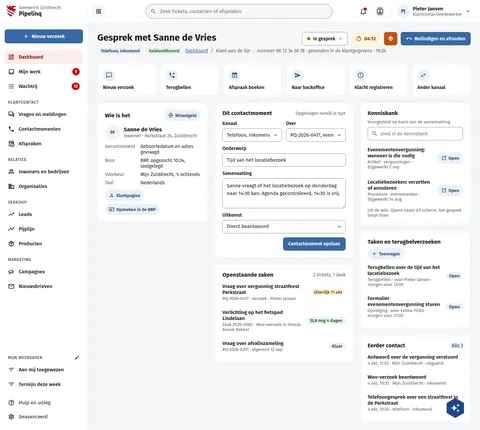
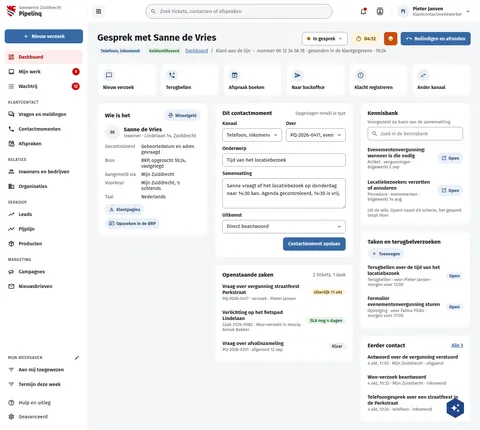
fix(screens): PqWerkplekKlant: Sanne lives on the Lindelaan, and keeps 'Aangemeld via'
- 'Wie is het' reads Sanne's address as the example-set cast holds it
  (Lindelaan 14), the cast being canon across apps.
- The client's own source stays a row of its own ('Aangemeld via Mijn
  Zuiddrecht') beside 'Bron: BRP, opgezocht ...', so the feature live has
  is drawn.

Assisted-by: ClaudeCode:claude-opus-5-5

Changed region(s): [[0.2188, 0.3023, 0.4062, 0.5442], [0.375, 0.3326, 0.4062, 0.3628]]

diff --git a/preview/screens/boards/PqWerkplekKlant.html b/preview/screens/boards/PqWerkplekKlant.html
@@ -199,7 +199,7 @@ a{color:var(--sc-primary, #3669a5)}a:hover{color:var(--sc-primary-deep, #234a78)
   <a href="PqBerichtSturen.html" style="background: #ffffff; border: 1px solid var(--sc-work-line, #e4e6ea); border-radius: 12px; padding: 16px; display: flex; flex-direction: column; align-items: flex-start; gap: 10px; text-decoration: none; color: var(--sc-work-ink, #1b1c1d)"><span style="width: 36px; height: 36px; border-radius: 18px; background: var(--sc-primary-light, #eaf0f7); color: var(--sc-primary-deep, #234a78); display: inline-flex; align-items: center; justify-content: center"><svg width="20" height="20" viewbox="0 0 24 24" fill="currentColor" aria-hidden="true"><path d="M21,9L17,5V8H10V10H17V13M7,11L3,15L7,19V16H14V14H7V11Z"></path></svg></span><span style="font-size: 14px; font-weight: 600">Ander kanaal</span></a>
 </nav>
 <div style="display: grid; grid-template-columns: minmax(0, 1fr) minmax(0, 1.25fr) minmax(0, 1fr); gap: 20px; align-items: start">
-          <div style="display: flex; flex-direction: column; gap: 20px"><section style="background: #ffffff; border: 1px solid var(--sc-work-line, #e4e6ea); border-radius: 12px; padding: 20px 22px; display: flex; flex-direction: column; gap: 12px"><div style="display: flex; justify-content: space-between; align-items: center; gap: 8px; flex-wrap: wrap"><h2 style="margin: 0; font-size: 17px; font-weight: 700; color: var(--sc-work-ink, #1b1c1d)">Wie is het</h2><button type="button" style="display: inline-flex; align-items: center; gap: 6px; height: 34px; padding: 0 12px; border: 0; border-radius: 17px; background: var(--sc-primary-light, #eaf0f7); color: var(--sc-primary-deep, #234a78); font: 600 13px var(--sc-font, 'Fira Sans'), sans-serif"><svg width="16" height="16" viewbox="0 0 24 24" fill="currentColor"><path d="M16 9C22 9 22 13 22 13V15H16V13C16 13 16 11.31 14.85 9.8C14.68 9.57 14.47 9.35 14.25 9.14C14.77 9.06 15.34 9 16 9M8 11C11.5 11 11.94 12.56 12 13H4C4.06 12.56 4.5 11 8 11M8 9C2 9 2 13 2 13V15H14V13C14 13 14 9 8 9M9 17V19H15V17L18 20L15 23V21H9V23L6 20L9 17M8 3C8.55 3 9 3.45 9 4S8.55 5 8 5 7 4.55 7 4 7.45 3 8 3M8 1C6.34 1 5 2.34 5 4S6.34 7 8 7 11 5.66 11 4 9.66 1 8 1M16 1C14.34 1 13 2.34 13 4S14.34 7 16 7 19 5.66 19 4 17.66 1 16 1Z"></path></svg>Wisselgeld</button></div><div style="display: flex; gap: 12px; align-items: center"><span style="width: 44px; height: 44px; flex: none; border-radius: 22px; background: var(--sc-work-chip, #f0f1f3); color: var(--sc-work-text, #3d4047); display: inline-flex; align-items: center; justify-content: center; font-size: 12px; font-weight: 700">SV</span><span style="display: flex; flex-direction: column"><strong style="font-size: 17px">Sanne de Vries</strong><span style="font-size: 14px; color: var(--sc-work-muted, #5e6168)">Inwoner · Parkstraat 24, Zuiddrecht</span></span></div><dl style="margin: 0; display: grid; grid-template-columns: max-content 1fr; gap: 8px 16px; font-size: 14px"><dt style="color: var(--sc-work-muted, #5e6168)">Gecontroleerd</dt><dd style="margin: 0">Geboortedatum en adres gevraagd</dd><dt style="color: var(--sc-work-muted, #5e6168)">Bron</dt><dd style="margin: 0">BRP, opgezocht 10:24, vastgelegd</dd><dt style="color: var(--sc-work-muted, #5e6168)">Voorkeur</dt><dd style="margin: 0">Mijn Zuiddrecht, 's ochtends</dd><dt style="color: var(--sc-work-muted, #5e6168)">Taal</dt><dd style="margin: 0">Nederlands</dd></dl><div style="display: flex; flex-wrap: wrap; gap: 8px"><button type="button" style="display: inline-flex; align-items: center; gap: 6px; height: 34px; padding: 0 12px; border: 0; border-radius: 17px; background: var(--sc-primary-light, #eaf0f7); color: var(--sc-primary-deep, #234a78); font: 600 13px var(--sc-font, 'Fira Sans'), sans-serif"><svg width="16" height="16" viewbox="0 0 24 24" fill="currentColor"><path d="M12,4A4,4 0 0,1 16,8A4,4 0 0,1 12,12A4,4 0 0,1 8,8A4,4 0 0,1 12,4M12,6A2,2 0 0,0 10,8A2,2 0 0,0 12,10A2,2 0 0,0 14,8A2,2 0 0,0 12,6M12,13C14.67,13 20,14.33 20,17V20H4V17C4,14.33 9.33,13 12,13M12,14.9C9.03,14.9 5.9,16.36 5.9,17V18.1H18.1V17C18.1,16.36 14.97,14.9 12,14.9Z"></path></svg>Klantpagina</button><button type="button" style="display: inline-flex; align-items: center; gap: 6px; height: 34px; padding: 0 12px; border: 0; border-radius: 17px; background: var(--sc-primary-light, #eaf0f7); color: var(--sc-primary-deep, #234a78); font: 600 13px var(--sc-font, 'Fira Sans'), sans-serif"><svg width="16" height="16" viewbox="0 0 24 24" fill="currentColor"><path d="M22,3H2C0.91,3.04 0.04,3.91 0,5V19C0.04,20.09 0.91,20.96 2,21H22C23.09,20.96 23.96,20.09 24,19V5C23.96,3.91 23.09,3.04 22,3M22,19H2V5H22V19M14,17V15.75C14,14.09 10.66,13.25 9,13.25C7.34,13.25 4,14.09 4,15.75V17H14M9,7A2.5,2.5 0 0,0 6.5,9.5A2.5,2.5 0 0,0 9,12A2.5,2.5 0 0,0 11.5,9.5A2.5,2.5 0 0,0 9,7M14,7V8H20V7H14M14,9V10H20V9H14M14,11V12H18V11H14"></path></svg>Opzoeken in de BRP</button></div></section></div>
+          <div style="display: flex; flex-direction: column; gap: 20px"><section style="background: #ffffff; border: 1px solid var(--sc-work-line, #e4e6ea); border-radius: 12px; padding: 20px 22px; display: flex; flex-direction: column; gap: 12px"><div style="display: flex; justify-content: space-between; align-items: center; gap: 8px; flex-wrap: wrap"><h2 style="margin: 0; font-size: 17px; font-weight: 700; color: var(--sc-work-ink, #1b1c1d)">Wie is het</h2><button type="button" style="display: inline-flex; align-items: center; gap: 6px; height: 34px; padding: 0 12px; border: 0; border-radius: 17px; background: var(--sc-primary-light, #eaf0f7); color: var(--sc-primary-deep, #234a78); font: 600 13px var(--sc-font, 'Fira Sans'), sans-serif"><svg width="16" height="16" viewbox="0 0 24 24" fill="currentColor"><path d="M16 9C22 9 22 13 22 13V15H16V13C16 13 16 11.31 14.85 9.8C14.68 9.57 14.47 9.35 14.25 9.14C14.77 9.06 15.34 9 16 9M8 11C11.5 11 11.94 12.56 12 13H4C4.06 12.56 4.5 11 8 11M8 9C2 9 2 13 2 13V15H14V13C14 13 14 9 8 9M9 17V19H15V17L18 20L15 23V21H9V23L6 20L9 17M8 3C8.55 3 9 3.45 9 4S8.55 5 8 5 7 4.55 7 4 7.45 3 8 3M8 1C6.34 1 5 2.34 5 4S6.34 7 8 7 11 5.66 11 4 9.66 1 8 1M16 1C14.34 1 13 2.34 13 4S14.34 7 16 7 19 5.66 19 4 17.66 1 16 1Z"></path></svg>Wisselgeld</button></div><div style="display: flex; gap: 12px; align-items: center"><span style="width: 44px; height: 44px; flex: none; border-radius: 22px; background: var(--sc-work-chip, #f0f1f3); color: var(--sc-work-text, #3d4047); display: inline-flex; align-items: center; justify-content: center; font-size: 12px; font-weight: 700">SV</span><span style="display: flex; flex-direction: column"><strong style="font-size: 17px">Sanne de Vries</strong><span style="font-size: 14px; color: var(--sc-work-muted, #5e6168)">Inwoner · Lindelaan 14, Zuiddrecht</span></span></div><dl style="margin: 0; display: grid; grid-template-columns: max-content 1fr; gap: 8px 16px; font-size: 14px"><dt style="color: var(--sc-work-muted, #5e6168)">Gecontroleerd</dt><dd style="margin: 0">Geboortedatum en adres gevraagd</dd><dt style="color: var(--sc-work-muted, #5e6168)">Bron</dt><dd style="margin: 0">BRP, opgezocht 10:24, vastgelegd</dd><dt style="color: var(--sc-work-muted, #5e6168)">Aangemeld via</dt><dd style="margin: 0">Mijn Zuiddrecht</dd><dt style="color: var(--sc-work-muted, #5e6168)">Voorkeur</dt><dd style="margin: 0">Mijn Zuiddrecht, 's ochtends</dd><dt style="color: var(--sc-work-muted, #5e6168)">Taal</dt><dd style="margin: 0">Nederlands</dd></dl><div style="display: flex; flex-wrap: wrap; gap: 8px"><button type="button" style="display: inline-flex; align-items: center; gap: 6px; height: 34px; padding: 0 12px; border: 0; border-radius: 17px; background: var(--sc-primary-light, #eaf0f7); color: var(--sc-primary-deep, #234a78); font: 600 13px var(--sc-font, 'Fira Sans'), sans-serif"><svg width="16" height="16" viewbox="0 0 24 24" fill="currentColor"><path d="M12,4A4,4 0 0,1 16,8A4,4 0 0,1 12,12A4,4 0 0,1 8,8A4,4 0 0,1 12,4M12,6A2,2 0 0,0 10,8A2,2 0 0,0 12,10A2,2 0 0,0 14,8A2,2 0 0,0 12,6M12,13C14.67,13 20,14.33 20,17V20H4V17C4,14.33 9.33,13 12,13M12,14.9C9.03,14.9 5.9,16.36 5.9,17V18.1H18.1V17C18.1,16.36 14.97,14.9 12,14.9Z"></path></svg>Klantpagina</button><button type="button" style="display: inline-flex; align-items: center; gap: 6px; height: 34px; padding: 0 12px; border: 0; border-radius: 17px; background: var(--sc-primary-light, #eaf0f7); color: var(--sc-primary-deep, #234a78); font: 600 13px var(--sc-font, 'Fira Sans'), sans-serif"><svg width="16" height="16" viewbox="0 0 24 24" fill="currentColor"><path d="M22,3H2C0.91,3.04 0.04,3.91 0,5V19C0.04,20.09 0.91,20.96 2,21H22C23.09,20.96 23.96,20.09 24,19V5C23.96,3.91 23.09,3.04 22,3M22,19H2V5H22V19M14,17V15.75C14,14.09 10.66,13.25 9,13.25C7.34,13.25 4,14.09 4,15.75V17H14M9,7A2.5,2.5 0 0,0 6.5,9.5A2.5,2.5 0 0,0 9,12A2.5,2.5 0 0,0 11.5,9.5A2.5,2.5 0 0,0 9,7M14,7V8H20V7H14M14,9V10H20V9H14M14,11V12H18V11H14"></path></svg>Opzoeken in de BRP</button></div></section></div>
           <div style="display: flex; flex-direction: column; gap: 20px"><section style="background: #ffffff; border: 1px solid var(--sc-work-line, #e4e6ea); border-radius: 12px; padding: 20px 22px; display: flex; flex-direction: column; gap: 12px"><div style="display: flex; justify-content: space-between; align-items: center; gap: 8px; flex-wrap: wrap"><h2 style="margin: 0; font-size: 17px; font-weight: 700; color: var(--sc-work-ink, #1b1c1d)">Dit contactmoment</h2><span style="font-size: 13px; color: var(--sc-work-muted, #5e6168)">Opgeslagen terwijl je typt</span></div><div style="display: grid; grid-template-columns: repeat(2, minmax(0, 1fr)); gap: 12px"><div style="display: flex; flex-direction: column; gap: 6px; min-width: 0"><label for="pq-wp-ch" style="font-size: 14px; font-weight: 600">Kanaal</label><div style="position: relative"><select id="pq-wp-ch" style="width: 100%; height: 40px; box-sizing: border-box; padding: 0 36px 0 12px; border: 1px solid var(--sc-work-field, #828a95); border-radius: 8px; background: #ffffff; font: 400 15px var(--sc-font, 'Fira Sans'), sans-serif; color: var(--sc-work-ink, #1b1c1d); appearance: none"><option>Telefoon, inkomend</option></select><svg width="18" height="18" viewbox="0 0 24 24" fill="#3d4047" style="position: absolute; right: 10px; top: 11px; pointer-events: none;fill:var(--sc-work-text, #3d4047)"><path d="M7.41,8.58L12,13.17L16.59,8.58L18,10L12,16L6,10L7.41,8.58Z"></path></svg></div></div><div style="display: flex; flex-direction: column; gap: 6px; min-width: 0"><label for="pq-wp-req" style="font-size: 14px; font-weight: 600">Over</label><div style="position: relative"><select id="pq-wp-req" style="width: 100%; height: 40px; box-sizing: border-box; padding: 0 36px 0 12px; border: 1px solid var(--sc-work-field, #828a95); border-radius: 8px; background: #ffffff; font: 400 15px var(--sc-font, 'Fira Sans'), sans-serif; color: var(--sc-work-ink, #1b1c1d); appearance: none"><option>PQ-2026-0417, evenementenvergunning</option></select><svg width="18" height="18" viewbox="0 0 24 24" fill="#3d4047" style="position: absolute; right: 10px; top: 11px; pointer-events: none;fill:var(--sc-work-text, #3d4047)"><path d="M7.41,8.58L12,13.17L16.59,8.58L18,10L12,16L6,10L7.41,8.58Z"></path></svg></div></div></div><div style="display: flex; flex-direction: column; gap: 6px; min-width: 0"><label for="pq-wp-subj" style="font-size: 14px; font-weight: 600">Onderwerp</label><input id="pq-wp-subj" type="text" value="Tijd van het locatiebezoek" placeholder="" style="width: 100%; height: 40px; box-sizing: border-box; padding: 0 12px; border: 1px solid var(--sc-work-field, #828a95); border-radius: 8px; font: 400 15px var(--sc-font, 'Fira Sans'), sans-serif; color: var(--sc-work-ink, #1b1c1d)"></div><div style="display: flex; flex-direction: column; gap: 6px; min-width: 0"><label for="pq-wp-sum" style="font-size: 14px; font-weight: 600">Samenvatting</label><textarea id="pq-wp-sum" rows="3" placeholder="" style="width: 100%; box-sizing: border-box; padding: 10px 12px; border: 1px solid var(--sc-work-field, #828a95); border-radius: 8px; font: 400 15px/1.5 var(--sc-font, 'Fira Sans'), sans-serif; color: var(--sc-work-ink, #1b1c1d); resize: vertical">Sanne vraagt of het locatiebezoek op donderdag naar 14:30 kan. Agenda gecontroleerd, 14:30 is vrij.</textarea></div><div style="display: flex; flex-direction: column; gap: 6px; min-width: 0"><label for="pq-wp-out" style="font-size: 14px; font-weight: 600">Uitkomst</label><div style="position: relative"><select id="pq-wp-out" style="width: 100%; height: 40px; box-sizing: border-box; padding: 0 36px 0 12px; border: 1px solid var(--sc-work-field, #828a95); border-radius: 8px; background: #ffffff; font: 400 15px var(--sc-font, 'Fira Sans'), sans-serif; color: var(--sc-work-ink, #1b1c1d); appearance: none"><option>Direct beantwoord</option></select><svg width="18" height="18" viewbox="0 0 24 24" fill="#3d4047" style="position: absolute; right: 10px; top: 11px; pointer-events: none;fill:var(--sc-work-text, #3d4047)"><path d="M7.41,8.58L12,13.17L16.59,8.58L18,10L12,16L6,10L7.41,8.58Z"></path></svg></div></div><button type="button" style="align-self: flex-end; height: 40px; padding: 0 16px; border: 0; border-radius: 8px; background: var(--sc-primary, #3669a5); color: #ffffff; font: 600 14px var(--sc-font, 'Fira Sans'), sans-serif">Contactmoment opslaan</button></section><section style="background: #ffffff; border: 1px solid var(--sc-work-line, #e4e6ea); border-radius: 12px; padding: 20px 22px; display: flex; flex-direction: column; gap: 4px"><div style="display: flex; justify-content: space-between; align-items: center; gap: 8px; flex-wrap: wrap"><h2 style="margin: 0; font-size: 17px; font-weight: 700; color: var(--sc-work-ink, #1b1c1d)">Openstaande zaken</h2><span style="font-size: 14px; color: var(--sc-work-muted, #5e6168)">2 tickets, 1 zaak</span></div><div style="display: flex; gap: 12px; align-items: center; padding: 10px 0; border-top: 1px solid var(--sc-work-soft, #eef0f3)"><span style="flex: 1 1 auto; min-width: 0; display: flex; flex-direction: column; gap: 2px"><strong style="font-size: 15px; font-weight: 600">Vraag over vergunning straatfeest Parkstraat</strong><span style="font-size: 13px; color: var(--sc-work-muted, #5e6168)">PQ-2026-0417 · verzoek · Pieter Jansen</span></span><span style="display: inline-block; padding: 3px 10px; border-radius: 12px; font-size: 13px; font-weight: 600; white-space: nowrap; background: #fff4de; color: #7a4f00">Uiterlijk 11 okt</span></div><div style="display: flex; gap: 12px; align-items: center; padding: 10px 0; border-top: 1px solid var(--sc-work-soft, #eef0f3)"><span style="flex: 1 1 auto; min-width: 0; display: flex; flex-direction: column; gap: 2px"><strong style="font-size: 15px; font-weight: 600">Verlichting op het fietspad Lindelaan</strong><span style="font-size: 13px; color: var(--sc-work-muted, #5e6168)">Zaak 2026-0082 · Woo-verzoek in dossiq · Anouk Bakker</span></span><span style="display: inline-block; padding: 3px 10px; border-radius: 12px; font-size: 13px; font-weight: 600; white-space: nowrap; background: #e7f3ea; color: #1e6b2a">SLA nog 4 dagen</span></div><div style="display: flex; gap: 12px; align-items: center; padding: 10px 0; border-top: 1px solid var(--sc-work-soft, #eef0f3)"><span style="flex: 1 1 auto; min-width: 0; display: flex; flex-direction: column; gap: 2px"><strong style="font-size: 15px; font-weight: 600">Vraag over afvalinzameling</strong><span style="font-size: 13px; color: var(--sc-work-muted, #5e6168)">PQ-2026-0351 · afgerond 12 sep</span></span><span style="display: inline-block; padding: 3px 10px; border-radius: 12px; font-size: 13px; font-weight: 600; white-space: nowrap; background: var(--sc-work-chip, #f0f1f3); color: var(--sc-work-text, #3d4047)">Klaar</span></div></section></div>
           <div style="display: flex; flex-direction: column; gap: 20px"><section style="background: #ffffff; border: 1px solid var(--sc-work-line, #e4e6ea); border-radius: 12px; padding: 20px 22px; display: flex; flex-direction: column; gap: 8px"><div style="display: flex; justify-content: space-between; align-items: center; gap: 8px; flex-wrap: wrap"><h2 style="margin: 0; font-size: 17px; font-weight: 700; color: var(--sc-work-ink, #1b1c1d)">Kennisbank</h2><span style="font-size: 13px; color: var(--sc-work-muted, #5e6168)">Voorgesteld op basis van de samenvatting</span></div><div style="position: relative"><svg width="18" height="18" viewbox="0 0 24 24" fill="#5e6168" style="position: absolute; left: 12px; top: 11px;fill:var(--sc-work-muted, #5e6168)"><path d="M9.5,3A6.5,6.5 0 0,1 16,9.5C16,11.11 15.41,12.59 14.44,13.73L14.71,14H15.5L20.5,19L19,20.5L14,15.5V14.71L13.73,14.44C12.59,15.41 11.11,16 9.5,16A6.5,6.5 0 0,1 3,9.5A6.5,6.5 0 0,1 9.5,3M9.5,5C7,5 5,7 5,9.5C5,12 7,14 9.5,14C12,14 14,12 14,9.5C14,7 12,5 9.5,5Z"></path></svg><label for="pq-wp-kb" style="position: absolute; width: 1px; height: 1px; overflow: hidden; clip: rect(0 0 0 0)">Zoek in de kennisbank</label><input id="pq-wp-kb" type="search" placeholder="Zoek in de kennisbank" style="width: 100%; height: 40px; box-sizing: border-box; padding: 0 12px 0 38px; border: 1px solid var(--sc-work-field, #828a95); border-radius: 8px; font: 400 14px var(--sc-font, 'Fira Sans'), sans-serif"></div><div style="display: flex; gap: 12px; align-items: center; padding: 10px 0; border-top: 1px solid var(--sc-work-soft, #eef0f3)"><span style="flex: 1 1 auto; min-width: 0; display: flex; flex-direction: column; gap: 2px"><strong style="font-size: 15px; font-weight: 600">Evenementenvergunning: wanneer is die nodig</strong><span style="font-size: 13px; color: var(--sc-work-muted, #5e6168)">Artikel · vergunningen · bijgewerkt 2 sep</span></span><button type="button" style="display: inline-flex; align-items: center; gap: 6px; height: 34px; padding: 0 12px; border: 0; border-radius: 17px; background: var(--sc-primary-light, #eaf0f7); color: var(--sc-primary-deep, #234a78); font: 600 13px var(--sc-font, 'Fira Sans'), sans-serif"><svg width="16" height="16" viewbox="0 0 24 24" fill="currentColor"><path d="M14,3V5H17.59L7.76,14.83L9.17,16.24L19,6.41V10H21V3M19,19H5V5H12V3H5C3.89,3 3,3.9 3,5V19A2,2 0 0,0 5,21H19A2,2 0 0,0 21,19V12H19V19Z"></path></svg>Open</button></div><div style="display: flex; gap: 12px; align-items: center; padding: 10px 0; border-top: 1px solid var(--sc-work-soft, #eef0f3)"><span style="flex: 1 1 auto; min-width: 0; display: flex; flex-direction: column; gap: 2px"><strong style="font-size: 15px; font-weight: 600">Locatiebezoeken: verzetten of annuleren</strong><span style="font-size: 13px; color: var(--sc-work-muted, #5e6168)">Procedure · evenementen · bijgewerkt 14 aug</span></span><button type="button" style="display: inline-flex; align-items: center; gap: 6px; height: 34px; padding: 0 12px; border: 0; border-radius: 17px; background: var(--sc-primary-light, #eaf0f7); color: var(--sc-primary-deep, #234a78); font: 600 13px var(--sc-font, 'Fira Sans'), sans-serif"><svg width="16" height="16" viewbox="0 0 24 24" fill="currentColor"><path d="M14,3V5H17.59L7.76,14.83L9.17,16.24L19,6.41V10H21V3M19,19H5V5H12V3H5C3.89,3 3,3.9 3,5V19A2,2 0 0,0 5,21H19A2,2 0 0,0 21,19V12H19V19Z"></path></svg>Open</button></div><span style="font-size: 13px; color: var(--sc-work-muted, #5e6168)">Uit de wiki. Opent naast dit scherm, het gesprek loopt door.</span></section><section style="background: #ffffff; border: 1px solid var(--sc-work-line, #e4e6ea); border-radius: 12px; padding: 20px 22px; display: flex; flex-direction: column; gap: 4px"><div style="display: flex; justify-content: space-between; align-items: center; gap: 8px; flex-wrap: wrap"><h2 style="margin: 0; font-size: 17px; font-weight: 700; color: var(--sc-work-ink, #1b1c1d)">Taken en terugbelverzoeken</h2><button type="button" style="display: inline-flex; align-items: center; gap: 6px; height: 34px; padding: 0 12px; border: 0; border-radius: 17px; background: var(--sc-primary-light, #eaf0f7); color: var(--sc-primary-deep, #234a78); font: 600 13px var(--sc-font, 'Fira Sans'), sans-serif"><svg width="16" height="16" viewbox="0 0 24 24" fill="currentColor"><path d="M19,13H13V19H11V13H5V11H11V5H13V11H19V13Z"></path></svg>Toevoegen</button></div><div style="display: flex; gap: 12px; align-items: center; padding: 10px 0; border-top: 1px solid var(--sc-work-soft, #eef0f3)"><span style="flex: 1 1 auto; min-width: 0; display: flex; flex-direction: column; gap: 2px"><strong style="font-size: 15px; font-weight: 600">Terugbellen over de tijd van het locatiebezoek</strong><span style="font-size: 13px; color: var(--sc-work-muted, #5e6168)">Terugbellen · voor Pieter Jansen · morgen voor 12:00</span></span><span style="display: inline-block; padding: 3px 10px; border-radius: 12px; font-size: 13px; font-weight: 600; white-space: nowrap; background: var(--sc-primary-light, #eaf0f7); color: var(--sc-primary-deep, #234a78)">Open</span></div><div style="display: flex; gap: 12px; align-items: center; padding: 10px 0; border-top: 1px solid var(--sc-work-soft, #eef0f3)"><span style="flex: 1 1 auto; min-width: 0; display: flex; flex-direction: column; gap: 2px"><strong style="font-size: 15px; font-weight: 600">Formulier evenementenvergunning sturen</strong><span style="font-size: 13px; color: var(--sc-work-muted, #5e6168)">Opvolging · voor Fatma Yildiz · morgen voor 17:00</span></span><span style="display: inline-block; padding: 3px 10px; border-radius: 12px; font-size: 13px; font-weight: 600; white-space: nowrap; background: var(--sc-primary-light, #eaf0f7); color: var(--sc-primary-deep, #234a78)">Open</span></div></section><section style="background: #ffffff; border: 1px solid var(--sc-work-line, #e4e6ea); border-radius: 12px; padding: 20px 22px; display: flex; flex-direction: column; gap: 4px"><div style="display: flex; justify-content: space-between; align-items: center; gap: 8px; flex-wrap: wrap"><h2 style="margin: 0; font-size: 17px; font-weight: 700; color: var(--sc-work-ink, #1b1c1d)">Eerder contact</h2><a href="PqKlant.html" style="font-size: 14px; font-weight: 600">Alle 3</a></div><div style="display: flex; gap: 12px; align-items: center; padding: 10px 0; border-top: 1px solid var(--sc-work-soft, #eef0f3)"><span style="flex: 1 1 auto; min-width: 0; display: flex; flex-direction: column; gap: 2px"><strong style="font-size: 15px; font-weight: 600">Antwoord over de vergunning verstuurd</strong><span style="font-size: 13px; color: var(--sc-work-muted, #5e6168)">4 okt, 11:02 · Mijn Zuiddrecht · uitgaand</span></span></div><div style="display: flex; gap: 12px; align-items: center; padding: 10px 0; border-top: 1px solid var(--sc-work-soft, #eef0f3)"><span style="flex: 1 1 auto; min-width: 0; display: flex; flex-direction: column; gap: 2px"><strong style="font-size: 15px; font-weight: 600">Woo-verzoek beantwoord</strong><span style="font-size: 13px; color: var(--sc-work-muted, #5e6168)">4 okt, 10:52 · Mijn Zuiddrecht · inkomend</span></span></div><div style="display: flex; gap: 12px; align-items: center; padding: 10px 0; border-top: 1px solid var(--sc-work-soft, #eef0f3)"><span style="flex: 1 1 auto; min-width: 0; display: flex; flex-direction: column; gap: 2px"><strong style="font-size: 15px; font-weight: 600">Telefoongesprek over een straatfeest in de Parkstraat</strong><span style="font-size: 13px; color: var(--sc-work-muted, #5e6168)">4 okt, 10:24 · telefoon · inkomend</span></span></div></section></div>
         </div>

diff --git a/screens-src/zuiddrecht/PqWerkplekKlant.dc.html b/screens-src/zuiddrecht/PqWerkplekKlant.dc.html
@@ -40,7 +40,7 @@ a{color:#3669a5}a:hover{color:#234a78}
   <a href="PqBerichtSturen.dc.html" style="background: #ffffff; border: 1px solid #e4e6ea; border-radius: 12px; padding: 16px; display: flex; flex-direction: column; align-items: flex-start; gap: 10px; text-decoration: none; color: #1b1c1d"><span style="width: 36px; height: 36px; border-radius: 18px; background: #eaf0f7; color: #234a78; display: inline-flex; align-items: center; justify-content: center"><svg width="20" height="20" viewBox="0 0 24 24" fill="currentColor" aria-hidden="true"><path d="M21,9L17,5V8H10V10H17V13M7,11L3,15L7,19V16H14V14H7V11Z"></path></svg></span><span style="font-size: 14px; font-weight: 600">Ander kanaal</span></a>
 </nav>
 <div style="display: grid; grid-template-columns: minmax(0, 1fr) minmax(0, 1.25fr) minmax(0, 1fr); gap: 20px; align-items: start">
-          <div style="display: flex; flex-direction: column; gap: 20px"><section style="background: #ffffff; border: 1px solid #e4e6ea; border-radius: 12px; padding: 20px 22px; display: flex; flex-direction: column; gap: 12px"><div style="display: flex; justify-content: space-between; align-items: center; gap: 8px; flex-wrap: wrap"><h2 style="margin: 0; font-size: 17px; font-weight: 700; color: #1b1c1d">Wie is het</h2><button type="button" style="display: inline-flex; align-items: center; gap: 6px; height: 34px; padding: 0 12px; border: 0; border-radius: 17px; background: #eaf0f7; color: #234a78; font: 600 13px 'Fira Sans', sans-serif"><svg width="16" height="16" viewBox="0 0 24 24" fill="currentColor"><path d="M16 9C22 9 22 13 22 13V15H16V13C16 13 16 11.31 14.85 9.8C14.68 9.57 14.47 9.35 14.25 9.14C14.77 9.06 15.34 9 16 9M8 11C11.5 11 11.94 12.56 12 13H4C4.06 12.56 4.5 11 8 11M8 9C2 9 2 13 2 13V15H14V13C14 13 14 9 8 9M9 17V19H15V17L18 20L15 23V21H9V23L6 20L9 17M8 3C8.55 3 9 3.45 9 4S8.55 5 8 5 7 4.55 7 4 7.45 3 8 3M8 1C6.34 1 5 2.34 5 4S6.34 7 8 7 11 5.66 11 4 9.66 1 8 1M16 1C14.34 1 13 2.34 13 4S14.34 7 16 7 19 5.66 19 4 17.66 1 16 1Z"></path></svg>Wisselgeld</button></div><div style="display: flex; gap: 12px; align-items: center"><span style="width: 44px; height: 44px; flex: none; border-radius: 22px; background: #f0f1f3; color: #3d4047; display: inline-flex; align-items: center; justify-content: center; font-size: 12px; font-weight: 700">SV</span><span style="display: flex; flex-direction: column"><strong style="font-size: 17px">Sanne de Vries</strong><span style="font-size: 14px; color: #5e6168">Inwoner · Parkstraat 24, Zuiddrecht</span></span></div><dl style="margin: 0; display: grid; grid-template-columns: max-content 1fr; gap: 8px 16px; font-size: 14px"><dt style="color: #5e6168">Gecontroleerd</dt><dd style="margin: 0">Geboortedatum en adres gevraagd</dd><dt style="color: #5e6168">Bron</dt><dd style="margin: 0">BRP, opgezocht 10:24, vastgelegd</dd><dt style="color: #5e6168">Voorkeur</dt><dd style="margin: 0">Mijn Zuiddrecht, 's ochtends</dd><dt style="color: #5e6168">Taal</dt><dd style="margin: 0">Nederlands</dd></dl><div style="display: flex; flex-wrap: wrap; gap: 8px"><button type="button" style="display: inline-flex; align-items: center; gap: 6px; height: 34px; padding: 0 12px; border: 0; border-radius: 17px; background: #eaf0f7; color: #234a78; font: 600 13px 'Fira Sans', sans-serif"><svg width="16" height="16" viewBox="0 0 24 24" fill="currentColor"><path d="M12,4A4,4 0 0,1 16,8A4,4 0 0,1 12,12A4,4 0 0,1 8,8A4,4 0 0,1 12,4M12,6A2,2 0 0,0 10,8A2,2 0 0,0 12,10A2,2 0 0,0 14,8A2,2 0 0,0 12,6M12,13C14.67,13 20,14.33 20,17V20H4V17C4,14.33 9.33,13 12,13M12,14.9C9.03,14.9 5.9,16.36 5.9,17V18.1H18.1V17C18.1,16.36 14.97,14.9 12,14.9Z"></path></svg>Klantpagina</button><button type="button" style="display: inline-flex; align-items: center; gap: 6px; height: 34px; padding: 0 12px; border: 0; border-radius: 17px; background: #eaf0f7; color: #234a78; font: 600 13px 'Fira Sans', sans-serif"><svg width="16" height="16" viewBox="0 0 24 24" fill="currentColor"><path d="M22,3H2C0.91,3.04 0.04,3.91 0,5V19C0.04,20.09 0.91,20.96 2,21H22C23.09,20.96 23.96,20.09 24,19V5C23.96,3.91 23.09,3.04 22,3M22,19H2V5H22V19M14,17V15.75C14,14.09 10.66,13.25 9,13.25C7.34,13.25 4,14.09 4,15.75V17H14M9,7A2.5,2.5 0 0,0 6.5,9.5A2.5,2.5 0 0,0 9,12A2.5,2.5 0 0,0 11.5,9.5A2.5,2.5 0 0,0 9,7M14,7V8H20V7H14M14,9V10H20V9H14M14,11V12H18V11H14"></path></svg>Opzoeken in de BRP</button></div></section></div>
+          <div style="display: flex; flex-direction: column; gap: 20px"><section style="background: #ffffff; border: 1px solid #e4e6ea; border-radius: 12px; padding: 20px 22px; display: flex; flex-direction: column; gap: 12px"><div style="display: flex; justify-content: space-between; align-items: center; gap: 8px; flex-wrap: wrap"><h2 style="margin: 0; font-size: 17px; font-weight: 700; color: #1b1c1d">Wie is het</h2><button type="button" style="display: inline-flex; align-items: center; gap: 6px; height: 34px; padding: 0 12px; border: 0; border-radius: 17px; background: #eaf0f7; color: #234a78; font: 600 13px 'Fira Sans', sans-serif"><svg width="16" height="16" viewBox="0 0 24 24" fill="currentColor"><path d="M16 9C22 9 22 13 22 13V15H16V13C16 13 16 11.31 14.85 9.8C14.68 9.57 14.47 9.35 14.25 9.14C14.77 9.06 15.34 9 16 9M8 11C11.5 11 11.94 12.56 12 13H4C4.06 12.56 4.5 11 8 11M8 9C2 9 2 13 2 13V15H14V13C14 13 14 9 8 9M9 17V19H15V17L18 20L15 23V21H9V23L6 20L9 17M8 3C8.55 3 9 3.45 9 4S8.55 5 8 5 7 4.55 7 4 7.45 3 8 3M8 1C6.34 1 5 2.34 5 4S6.34 7 8 7 11 5.66 11 4 9.66 1 8 1M16 1C14.34 1 13 2.34 13 4S14.34 7 16 7 19 5.66 19 4 17.66 1 16 1Z"></path></svg>Wisselgeld</button></div><div style="display: flex; gap: 12px; align-items: center"><span style="width: 44px; height: 44px; flex: none; border-radius: 22px; background: #f0f1f3; color: #3d4047; display: inline-flex; align-items: center; justify-content: center; font-size: 12px; font-weight: 700">SV</span><span style="display: flex; flex-direction: column"><strong style="font-size: 17px">Sanne de Vries</strong><span style="font-size: 14px; color: #5e6168">Inwoner · Lindelaan 14, Zuiddrecht</span></span></div><dl style="margin: 0; display: grid; grid-template-columns: max-content 1fr; gap: 8px 16px; font-size: 14px"><dt style="color: #5e6168">Gecontroleerd</dt><dd style="margin: 0">Geboortedatum en adres gevraagd</dd><dt style="color: #5e6168">Bron</dt><dd style="margin: 0">BRP, opgezocht 10:24, vastgelegd</dd><dt style="color: #5e6168">Aangemeld via</dt><dd style="margin: 0">Mijn Zuiddrecht</dd><dt style="color: #5e6168">Voorkeur</dt><dd style="margin: 0">Mijn Zuiddrecht, 's ochtends</dd><dt style="color: #5e6168">Taal</dt><dd style="margin: 0">Nederlands</dd></dl><div style="display: flex; flex-wrap: wrap; gap: 8px"><button type="button" style="display: inline-flex; align-items: center; gap: 6px; height: 34px; padding: 0 12px; border: 0; border-radius: 17px; background: #eaf0f7; color: #234a78; font: 600 13px 'Fira Sans', sans-serif"><svg width="16" height="16" viewBox="0 0 24 24" fill="currentColor"><path d="M12,4A4,4 0 0,1 16,8A4,4 0 0,1 12,12A4,4 0 0,1 8,8A4,4 0 0,1 12,4M12,6A2,2 0 0,0 10,8A2,2 0 0,0 12,10A2,2 0 0,0 14,8A2,2 0 0,0 12,6M12,13C14.67,13 20,14.33 20,17V20H4V17C4,14.33 9.33,13 12,13M12,14.9C9.03,14.9 5.9,16.36 5.9,17V18.1H18.1V17C18.1,16.36 14.97,14.9 12,14.9Z"></path></svg>Klantpagina</button><button type="button" style="display: inline-flex; align-items: center; gap: 6px; height: 34px; padding: 0 12px; border: 0; border-radius: 17px; background: #eaf0f7; color: #234a78; font: 600 13px 'Fira Sans', sans-serif"><svg width="16" height="16" viewBox="0 0 24 24" fill="currentColor"><path d="M22,3H2C0.91,3.04 0.04,3.91 0,5V19C0.04,20.09 0.91,20.96 2,21H22C23.09,20.96 23.96,20.09 24,19V5C23.96,3.91 23.09,3.04 22,3M22,19H2V5H22V19M14,17V15.75C14,14.09 10.66,13.25 9,13.25C7.34,13.25 4,14.09 4,15.75V17H14M9,7A2.5,2.5 0 0,0 6.5,9.5A2.5,2.5 0 0,0 9,12A2.5,2.5 0 0,0 11.5,9.5A2.5,2.5 0 0,0 9,7M14,7V8H20V7H14M14,9V10H20V9H14M14,11V12H18V11H14"></path></svg>Opzoeken in de BRP</button></div></section></div>
           <div style="display: flex; flex-direction: column; gap: 20px"><section style="background: #ffffff; border: 1px solid #e4e6ea; border-radius: 12px; padding: 20px 22px; display: flex; flex-direction: column; gap: 12px"><div style="display: flex; justify-content: space-between; align-items: center; gap: 8px; flex-wrap: wrap"><h2 style="margin: 0; font-size: 17px; font-weight: 700; color: #1b1c1d">Dit contactmoment</h2><span style="font-size: 13px; color: #5e6168">Opgeslagen terwijl je typt</span></div><div style="display: grid; grid-template-columns: repeat(2, minmax(0, 1fr)); gap: 12px"><div style="display: flex; flex-direction: column; gap: 6px; min-width: 0"><label for="pq-wp-ch" style="font-size: 14px; font-weight: 600">Kanaal</label><div style="position: relative"><select id="pq-wp-ch" style="width: 100%; height: 40px; box-sizing: border-box; padding: 0 36px 0 12px; border: 1px solid #828a95; border-radius: 8px; background: #ffffff; font: 400 15px 'Fira Sans', sans-serif; color: #1b1c1d; appearance: none"><option>Telefoon, inkomend</option></select><svg width="18" height="18" viewBox="0 0 24 24" fill="#3d4047" style="position: absolute; right: 10px; top: 11px; pointer-events: none"><path d="M7.41,8.58L12,13.17L16.59,8.58L18,10L12,16L6,10L7.41,8.58Z"></path></svg></div></div><div style="display: flex; flex-direction: column; gap: 6px; min-width: 0"><label for="pq-wp-req" style="font-size: 14px; font-weight: 600">Over</label><div style="position: relative"><select id="pq-wp-req" style="width: 100%; height: 40px; box-sizing: border-box; padding: 0 36px 0 12px; border: 1px solid #828a95; border-radius: 8px; background: #ffffff; font: 400 15px 'Fira Sans', sans-serif; color: #1b1c1d; appearance: none"><option>PQ-2026-0417, evenementenvergunning</option></select><svg width="18" height="18" viewBox="0 0 24 24" fill="#3d4047" style="position: absolute; right: 10px; top: 11px; pointer-events: none"><path d="M7.41,8.58L12,13.17L16.59,8.58L18,10L12,16L6,10L7.41,8.58Z"></path></svg></div></div></div><div style="display: flex; flex-direction: column; gap: 6px; min-width: 0"><label for="pq-wp-subj" style="font-size: 14px; font-weight: 600">Onderwerp</label><input id="pq-wp-subj" type="text" value="Tijd van het locatiebezoek" placeholder="" style="width: 100%; height: 40px; box-sizing: border-box; padding: 0 12px; border: 1px solid #828a95; border-radius: 8px; font: 400 15px 'Fira Sans', sans-serif; color: #1b1c1d"></div><div style="display: flex; flex-direction: column; gap: 6px; min-width: 0"><label for="pq-wp-sum" style="font-size: 14px; font-weight: 600">Samenvatting</label><textarea id="pq-wp-sum" rows="3" placeholder="" style="width: 100%; box-sizing: border-box; padding: 10px 12px; border: 1px solid #828a95; border-radius: 8px; font: 400 15px/1.5 'Fira Sans', sans-serif; color: #1b1c1d; resize: vertical">Sanne vraagt of het locatiebezoek op donderdag naar 14:30 kan. Agenda gecontroleerd, 14:30 is vrij.</textarea></div><div style="display: flex; flex-direction: column; gap: 6px; min-width: 0"><label for="pq-wp-out" style="font-size: 14px; font-weight: 600">Uitkomst</label><div style="position: relative"><select id="pq-wp-out" style="width: 100%; height: 40px; box-sizing: border-box; padding: 0 36px 0 12px; border: 1px solid #828a95; border-radius: 8px; background: #ffffff; font: 400 15px 'Fira Sans', sans-serif; color: #1b1c1d; appearance: none"><option>Direct beantwoord</option></select><svg width="18" height="18" viewBox="0 0 24 24" fill="#3d4047" style="position: absolute; right: 10px; top: 11px; pointer-events: none"><path d="M7.41,8.58L12,13.17L16.59,8.58L18,10L12,16L6,10L7.41,8.58Z"></path></svg></div></div><button type="button" style="align-self: flex-end; height: 40px; padding: 0 16px; border: 0; border-radius: 8px; background: #3669a5; color: #ffffff; font: 600 14px 'Fira Sans', sans-serif">Contactmoment opslaan</button></section><section style="background: #ffffff; border: 1px solid #e4e6ea; border-radius: 12px; padding: 20px 22px; display: flex; flex-direction: column; gap: 4px"><div style="display: flex; justify-content: space-between; align-items: center; gap: 8px; flex-wrap: wrap"><h2 style="margin: 0; font-size: 17px; font-weight: 700; color: #1b1c1d">Openstaande zaken</h2><span style="font-size: 14px; color: #5e6168">2 tickets, 1 zaak</span></div><div style="display: flex; gap: 12px; align-items: center; padding: 10px 0; border-top: 1px solid #eef0f3"><span style="flex: 1 1 auto; min-width: 0; display: flex; flex-direction: column; gap: 2px"><strong style="font-size: 15px; font-weight: 600">Vraag over vergunning straatfeest Parkstraat</strong><span style="font-size: 13px; color: #5e6168">PQ-2026-0417 · verzoek · Pieter Jansen</span></span><span style="display: inline-block; padding: 3px 10px; border-radius: 12px; font-size: 13px; font-weight: 600; white-space: nowrap; background: #fff4de; color: #7a4f00">Uiterlijk 11 okt</span></div><div style="display: flex; gap: 12px; align-items: center; padding: 10px 0; border-top: 1px solid #eef0f3"><span style="flex: 1 1 auto; min-width: 0; display: flex; flex-direction: column; gap: 2px"><strong style="font-size: 15px; font-weight: 600">Verlichting op het fietspad Lindelaan</strong><span style="font-size: 13px; color: #5e6168">Zaak 2026-0082 · Woo-verzoek in dossiq · Anouk Bakker</span></span><span style="display: inline-block; padding: 3px 10px; border-radius: 12px; font-size: 13px; font-weight: 600; white-space: nowrap; background: #e7f3ea; color: #1e6b2a">SLA nog 4 dagen</span></div><div style="display: flex; gap: 12px; align-items: center; padding: 10px 0; border-top: 1px solid #eef0f3"><span style="flex: 1 1 auto; min-width: 0; display: flex; flex-direction: column; gap: 2px"><strong style="font-size: 15px; font-weight: 600">Vraag over afvalinzameling</strong><span style="font-size: 13px; color: #5e6168">PQ-2026-0351 · afgerond 12 sep</span></span><span style="display: inline-block; padding: 3px 10px; border-radius: 12px; font-size: 13px; font-weight: 600; white-space: nowrap; background: #f0f1f3; color: #3d4047">Klaar</span></div></section></div>
           <div style="display: flex; flex-direction: column; gap: 20px"><section style="background: #ffffff; border: 1px solid #e4e6ea; border-radius: 12px; padding: 20px 22px; display: flex; flex-direction: column; gap: 8px"><div style="display: flex; justify-content: space-between; align-items: center; gap: 8px; flex-wrap: wrap"><h2 style="margin: 0; font-size: 17px; font-weight: 700; color: #1b1c1d">Kennisbank</h2><span style="font-size: 13px; color: #5e6168">Voorgesteld op basis van de samenvatting</span></div><div style="position: relative"><svg width="18" height="18" viewBox="0 0 24 24" fill="#5e6168" style="position: absolute; left: 12px; top: 11px"><path d="M9.5,3A6.5,6.5 0 0,1 16,9.5C16,11.11 15.41,12.59 14.44,13.73L14.71,14H15.5L20.5,19L19,20.5L14,15.5V14.71L13.73,14.44C12.59,15.41 11.11,16 9.5,16A6.5,6.5 0 0,1 3,9.5A6.5,6.5 0 0,1 9.5,3M9.5,5C7,5 5,7 5,9.5C5,12 7,14 9.5,14C12,14 14,12 14,9.5C14,7 12,5 9.5,5Z"></path></svg><label for="pq-wp-kb" style="position: absolute; width: 1px; height: 1px; overflow: hidden; clip: rect(0 0 0 0)">Zoek in de kennisbank</label><input id="pq-wp-kb" type="search" placeholder="Zoek in de kennisbank" style="width: 100%; height: 40px; box-sizing: border-box; padding: 0 12px 0 38px; border: 1px solid #828a95; border-radius: 8px; font: 400 14px 'Fira Sans', sans-serif"></div><div style="display: flex; gap: 12px; align-items: center; padding: 10px 0; border-top: 1px solid #eef0f3"><span style="flex: 1 1 auto; min-width: 0; display: flex; flex-direction: column; gap: 2px"><strong style="font-size: 15px; font-weight: 600">Evenementenvergunning: wanneer is die nodig</strong><span style="font-size: 13px; color: #5e6168">Artikel · vergunningen · bijgewerkt 2 sep</span></span><button type="button" style="display: inline-flex; align-items: center; gap: 6px; height: 34px; padding: 0 12px; border: 0; border-radius: 17px; background: #eaf0f7; color: #234a78; font: 600 13px 'Fira Sans', sans-serif"><svg width="16" height="16" viewBox="0 0 24 24" fill="currentColor"><path d="M14,3V5H17.59L7.76,14.83L9.17,16.24L19,6.41V10H21V3M19,19H5V5H12V3H5C3.89,3 3,3.9 3,5V19A2,2 0 0,0 5,21H19A2,2 0 0,0 21,19V12H19V19Z"></path></svg>Open</button></div><div style="display: flex; gap: 12px; align-items: center; padding: 10px 0; border-top: 1px solid #eef0f3"><span style="flex: 1 1 auto; min-width: 0; display: flex; flex-direction: column; gap: 2px"><strong style="font-size: 15px; font-weight: 600">Locatiebezoeken: verzetten of annuleren</strong><span style="font-size: 13px; color: #5e6168">Procedure · evenementen · bijgewerkt 14 aug</span></span><button type="button" style="display: inline-flex; align-items: center; gap: 6px; height: 34px; padding: 0 12px; border: 0; border-radius: 17px; background: #eaf0f7; color: #234a78; font: 600 13px 'Fira Sans', sans-serif"><svg width="16" height="16" viewBox="0 0 24 24" fill="currentColor"><path d="M14,3V5H17.59L7.76,14.83L9.17,16.24L19,6.41V10H21V3M19,19H5V5H12V3H5C3.89,3 3,3.9 3,5V19A2,2 0 0,0 5,21H19A2,2 0 0,0 21,19V12H19V19Z"></path></svg>Open</button></div><span style="font-size: 13px; color: #5e6168">Uit de wiki. Opent naast dit scherm, het gesprek loopt door.</span></section><section style="background: #ffffff; border: 1px solid #e4e6ea; border-radius: 12px; padding: 20px 22px; display: flex; flex-direction: column; gap: 4px"><div style="display: flex; justify-content: space-between; align-items: center; gap: 8px; flex-wrap: wrap"><h2 style="margin: 0; font-size: 17px; font-weight: 700; color: #1b1c1d">Taken en terugbelverzoeken</h2><button type="button" style="display: inline-flex; align-items: center; gap: 6px; height: 34px; padding: 0 12px; border: 0; border-radius: 17px; background: #eaf0f7; color: #234a78; font: 600 13px 'Fira Sans', sans-serif"><svg width="16" height="16" viewBox="0 0 24 24" fill="currentColor"><path d="M19,13H13V19H11V13H5V11H11V5H13V11H19V13Z"></path></svg>Toevoegen</button></div><div style="display: flex; gap: 12px; align-items: center; padding: 10px 0; border-top: 1px solid #eef0f3"><span style="flex: 1 1 auto; min-width: 0; display: flex; flex-direction: column; gap: 2px"><strong style="font-size: 15px; font-weight: 600">Terugbellen over de tijd van het locatiebezoek</strong><span style="font-size: 13px; color: #5e6168">Terugbellen · voor Pieter Jansen · morgen voor 12:00</span></span><span style="display: inline-block; padding: 3px 10px; border-radius: 12px; font-size: 13px; font-weight: 600; white-space: nowrap; background: #eaf0f7; color: #234a78">Open</span></div><div style="display: flex; gap: 12px; align-items: center; padding: 10px 0; border-top: 1px solid #eef0f3"><span style="flex: 1 1 auto; min-width: 0; display: flex; flex-direction: column; gap: 2px"><strong style="font-size: 15px; font-weight: 600">Formulier evenementenvergunning sturen</strong><span style="font-size: 13px; color: #5e6168">Opvolging · voor Fatma Yildiz · morgen voor 17:00</span></span><span style="display: inline-block; padding: 3px 10px; border-radius: 12px; font-size: 13px; font-weight: 600; white-space: nowrap; background: #eaf0f7; color: #234a78">Open</span></div></section><section style="background: #ffffff; border: 1px solid #e4e6ea; border-radius: 12px; padding: 20px 22px; display: flex; flex-direction: column; gap: 4px"><div style="display: flex; justify-content: space-between; align-items: center; gap: 8px; flex-wrap: wrap"><h2 style="margin: 0; font-size: 17px; font-weight: 700; color: #1b1c1d">Eerder contact</h2><a href="PqKlant.dc.html" style="font-size: 14px; font-weight: 600">Alle 3</a></div><div style="display: flex; gap: 12px; align-items: center; padding: 10px 0; border-top: 1px solid #eef0f3"><span style="flex: 1 1 auto; min-width: 0; display: flex; flex-direction: column; gap: 2px"><strong style="font-size: 15px; font-weight: 600">Antwoord over de vergunning verstuurd</strong><span style="font-size: 13px; color: #5e6168">4 okt, 11:02 · Mijn Zuiddrecht · uitgaand</span></span></div><div style="display: flex; gap: 12px; align-items: center; padding: 10px 0; border-top: 1px solid #eef0f3"><span style="flex: 1 1 auto; min-width: 0; display: flex; flex-direction: column; gap: 2px"><strong style="font-size: 15px; font-weight: 600">Woo-verzoek beantwoord</strong><span style="font-size: 13px; color: #5e6168">4 okt, 10:52 · Mijn Zuiddrecht · inkomend</span></span></div><div style="display: flex; gap: 12px; align-items: center; padding: 10px 0; border-top: 1px solid #eef0f3"><span style="flex: 1 1 auto; min-width: 0; display: flex; flex-direction: column; gap: 2px"><strong style="font-size: 15px; font-weight: 600">Telefoongesprek over een straatfeest in de Parkstraat</strong><span style="font-size: 13px; color: #5e6168">4 okt, 10:24 · telefoon · inkomend</span></span></div></section></div>
         </div>
